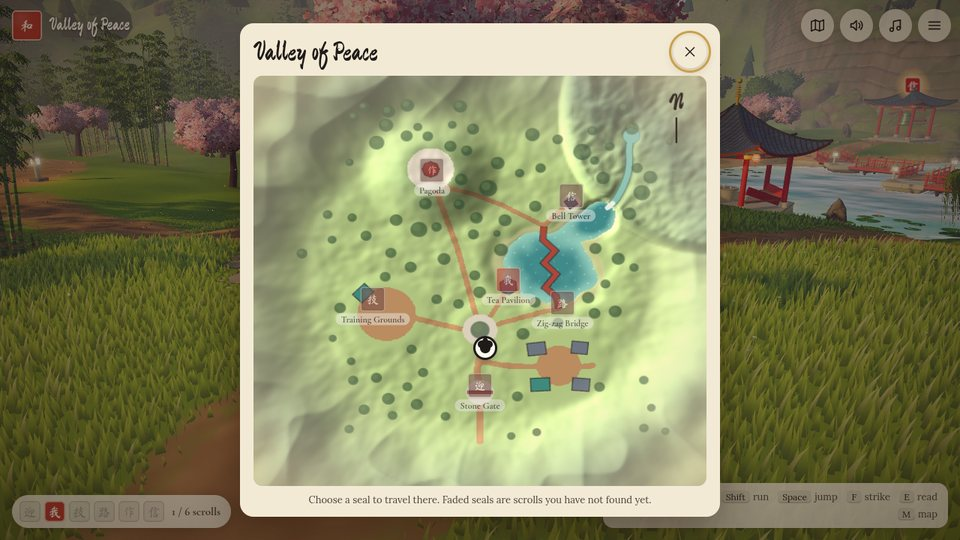
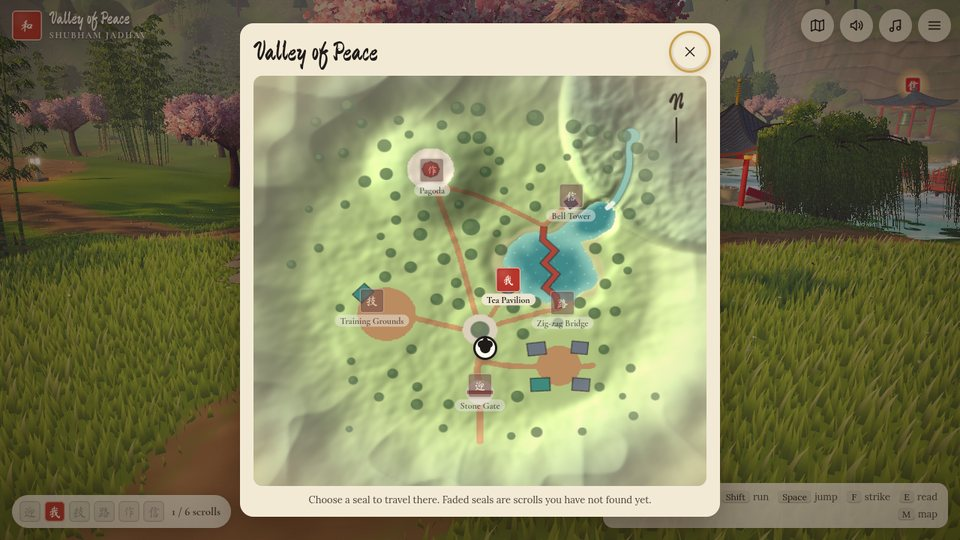
docs: retake the README pictures with the real content
The bridge, the banner by the pagoda, the waterfall, the grove, the About scroll, the map and the tour's opening title now show my name, my milestones and my projects instead of the template's placeholders.

diff --git a/README.md b/README.md
@@ -53,10 +53,10 @@ everything as a plain, accessible page.
 
 ## Screenshots
 
-| ![The panda crossing the zig-zag bridge over the koi lake, past a weeping willow](docs/images/bridge.jpg) | ![The panda below the pagoda, next to a project banner](docs/images/pagoda-top.jpg) |
-| --------------------------------------------------------------------------------------------------------- | ----------------------------------------------------------------------------------- |
-| ![The waterfall pouring into its plunge pool by the bell tower](docs/images/falls.jpg)                    | ![Golden and green bamboo by the training grounds](docs/images/grove.jpg)           |
-| ![The About scroll unrolled over the lake](docs/images/scroll.jpg)                                        | ![The ink-wash map with quick travel](docs/images/map.jpg)                          |
+| ![The panda on the zig-zag bridge over the koi lake, where every turn marks a step of the journey](docs/images/bridge.jpg) | ![The panda below the pagoda, next to a project banner](docs/images/pagoda-top.jpg) |
+| -------------------------------------------------------------------------------------------------------------------------- | ----------------------------------------------------------------------------------- |
+| ![The waterfall pouring into its plunge pool by the bell tower](docs/images/falls.jpg)                                     | ![Golden and green bamboo by the training grounds](docs/images/grove.jpg)           |
+| ![The About scroll unrolled over the lake](docs/images/scroll.jpg)                                                         | ![The ink-wash map with quick travel](docs/images/map.jpg)                          |
 
 ## Controls
 
